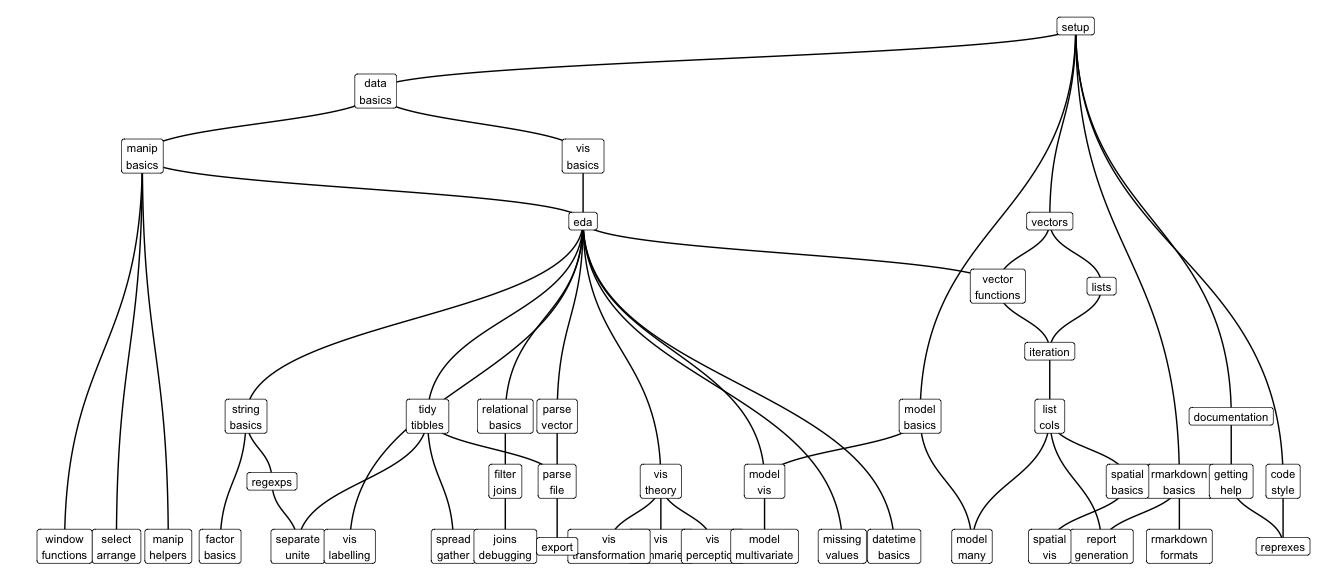
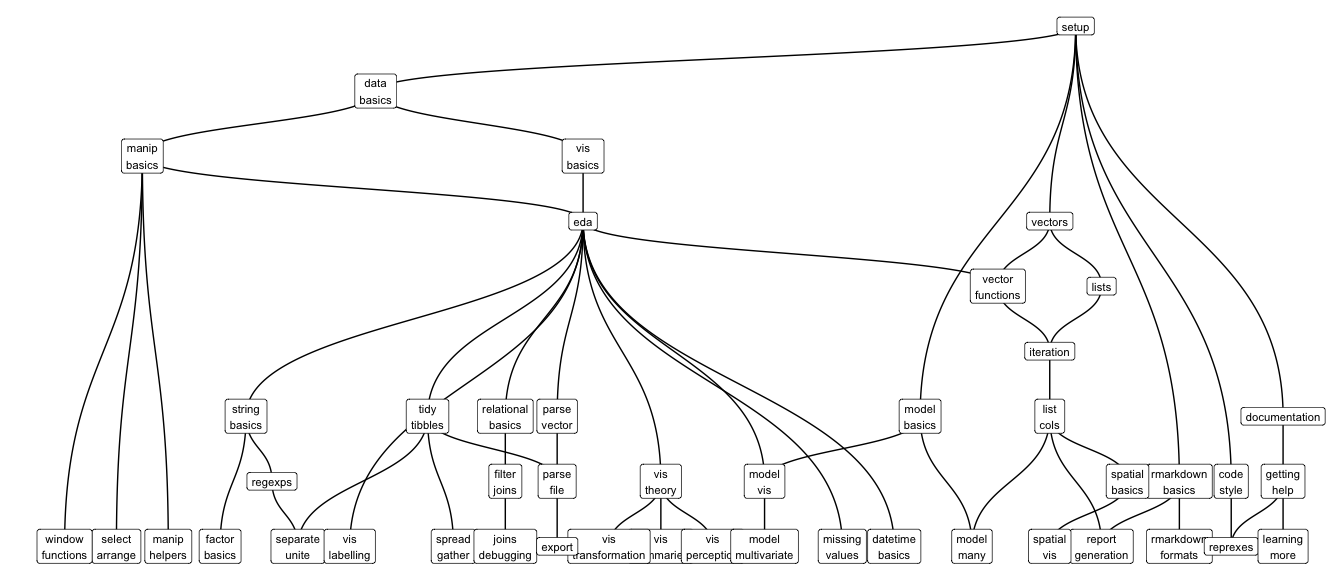
Add learning more section

diff --git a/docs/learning-more.md b/docs/learning-more.md
@@ -1,0 +1,27 @@
+---
+title: Learning more
+---
+
+<!-- Generated automatically from learning-more.yml. Do not edit by hand -->
+
+# Learning more
+<small>(Builds on: [Getting help](getting-help.md))</small>
+
+In this class, you have mastered the basics of data science in R,
+but there's still a lot to learn! To keep learning, you need to
+build up a regular practice of
+
+* [R Weekly](https://rweekly.org): a weekly newsletter highlighting
+  what's been happening in the R community
+
+* [RStudio's blog](http://blog.rstudio.org): this is where updates to
+  the tidyverse (including new packages) are announced.
+
+* [RStudio Tips](https://twitter.com/rstudiotips): this twitter account
+  posts little tips and tricks for using RStudio effectively.
+
+* [tidyverse.org](http://tidyverse.org): there's not much here yet,
+  but the goal is to provide an up-to-date resource for everything
+  tidyverse
+
+

diff --git a/docs/getting-help.md b/docs/getting-help.md
@@ -6,7 +6,7 @@ title: Getting help
 
 # Getting help
 <small>(Builds on: [Documentation](documentation.md))</small>  
-<small>(Leads to: [Reprexes](reprexes.md))</small>
+<small>(Leads to: [Learning more](learning-more.md), [Reprexes](reprexes.md))</small>
 
 It's good to have some resources outside of this class to get help.
 These readings will give you some solid advice on using google and

diff --git a/docs/index.md b/docs/index.md
@@ -179,6 +179,7 @@ you continue to master data science outside of this class.
 1. [Exporting data](export.md)
 1. [R Markdown presentations](rmarkdown-formats.md)
 1. [Reprexes](reprexes.md)
+1. [Learning more](learning-more.md)
 
 
 
